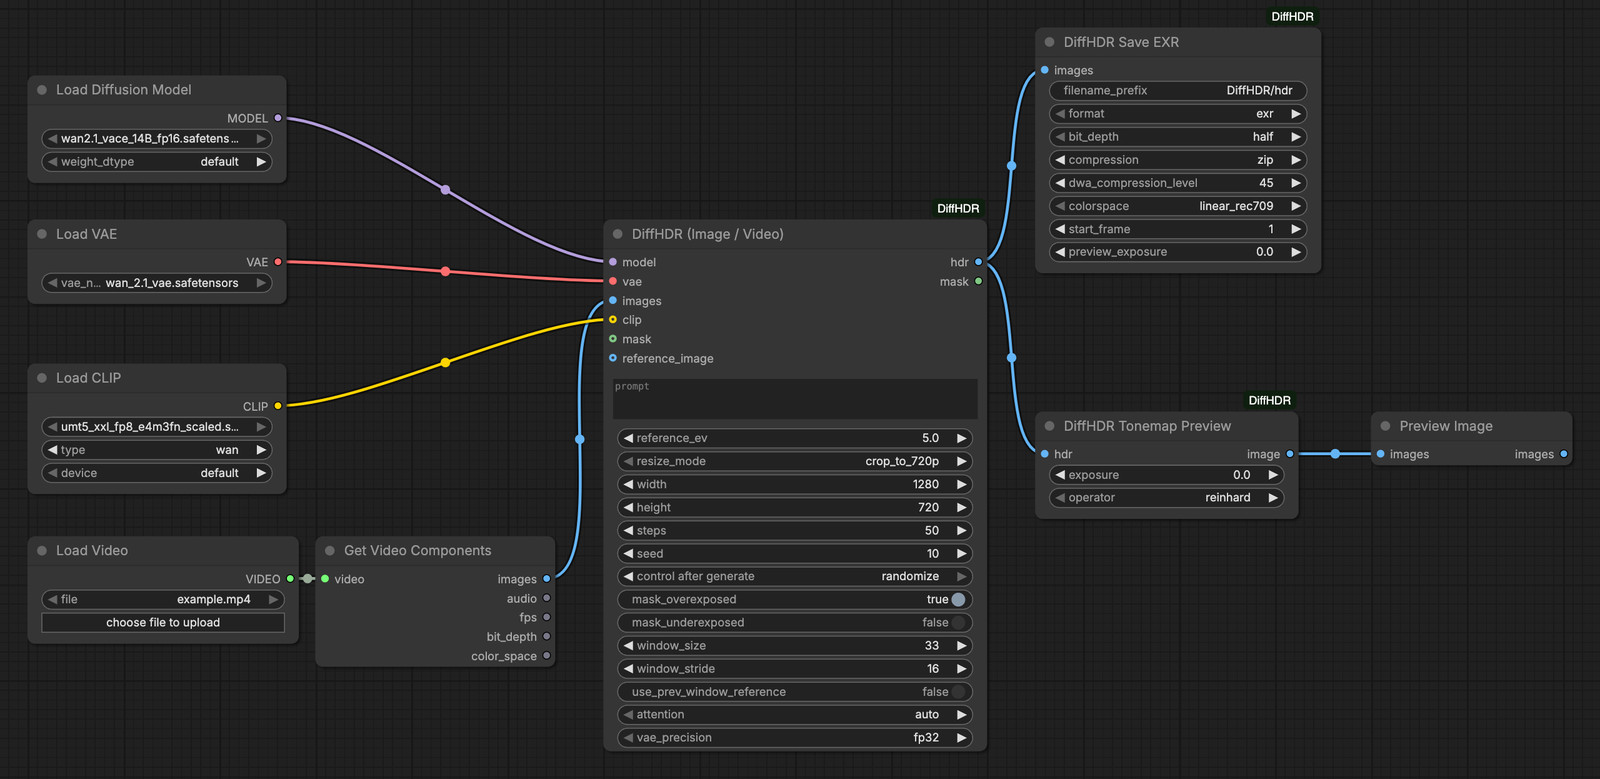
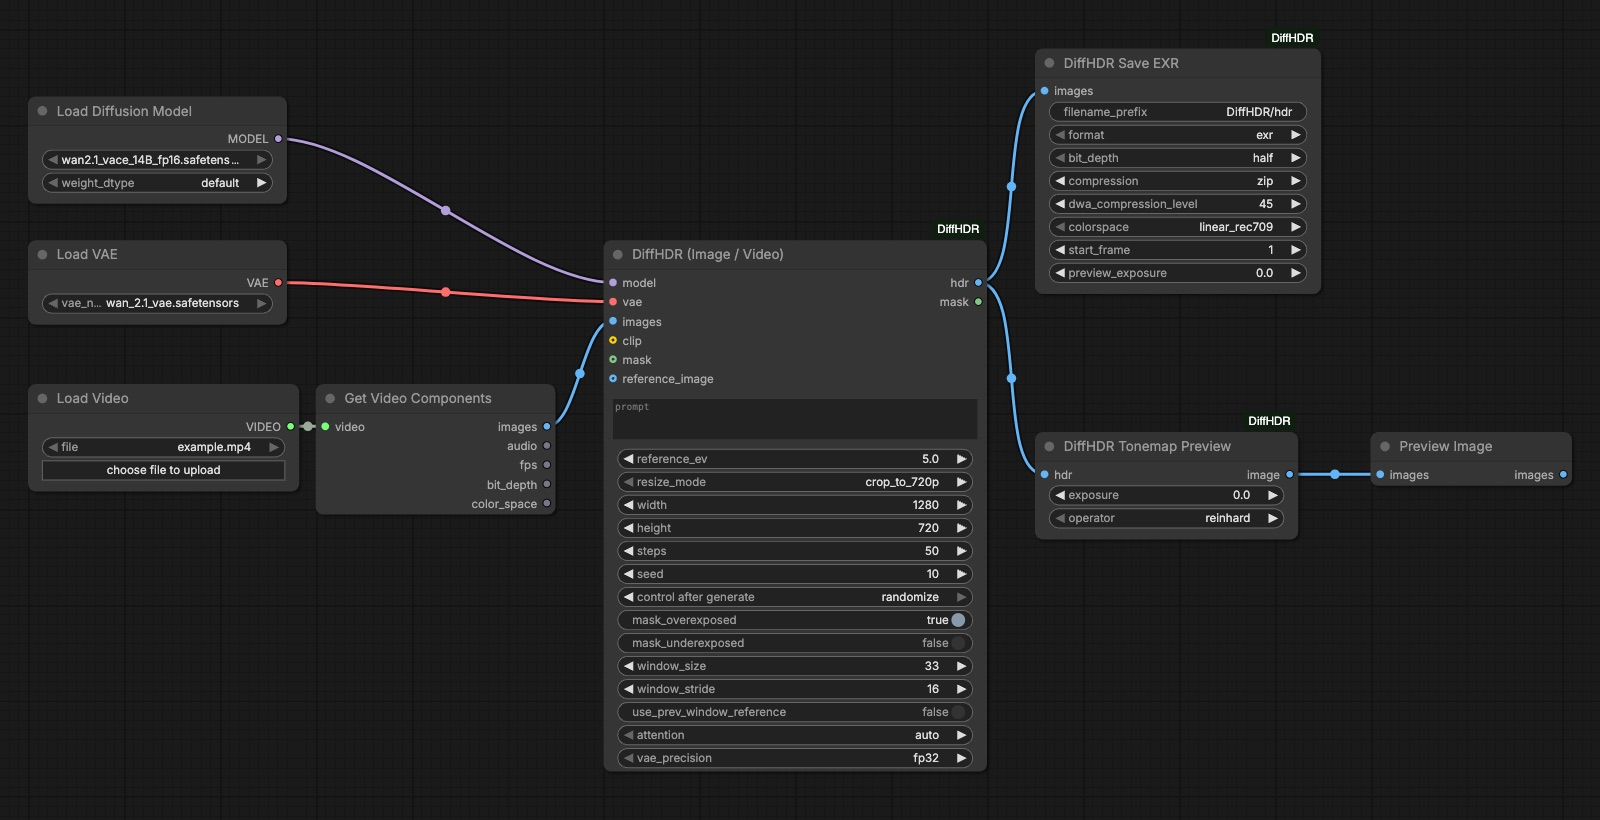
docs(workflows): drop the text encoder from the all-in-one examples
The bundled umT5 embeddings make a CLIP model optional for DiffHDRVideo and
DiffHDRPano, so the three all-in-one example graphs now show the minimal
setup: no CLIPLoader, the clip input left unconnected, and the loader column
evenly re-spaced. The modular graph keeps its text encoder, which its
CLIPTextEncode -> WanVaceToVideo path needs.

Retakes the quick-start screenshot from the tidied graph and updates the
usage and installation wording to match.

diff --git a/README.md b/README.md
@@ -47,28 +47,38 @@ of them was downloaded and run end-to-end during GPU validation.
 
 **The text encoder is optional.** DiffHDR was trained with an empty prompt for images/video and a
 fixed prompt for panoramas, so both all-in-one nodes ship with exactly those embeddings baked in
-(`assets/embeds/`) and run with **no CLIP model loaded at all**. Leave `clip` unconnected and you
-save the ~11 GB umT5-xxl download and its load time; the `prompt` widget is then ignored. Connect a
-umT5-xxl CLIP (`CLIPLoader`, type `wan`) only if you want to experiment with your own prompts.
+(`assets/embeds/`) and run with **no CLIP model loaded at all**. The three all-in-one example
+graphs therefore contain no `CLIPLoader`: leave `clip` unconnected and you save the ~11 GB
+umT5-xxl download and its load time; the `prompt` widget is then ignored. Add a umT5-xxl
+`CLIPLoader` (type `wan`) only if you want to experiment with your own prompts — the modular
+example graph needs it, because its `CLIPTextEncode` → `WanVaceToVideo` path has no baked-in
+embeddings.
 
 ## Usage
 
 Four example workflows are in `workflows/` (ComfyUI UI-format JSON, load with **Open** or
 drag-and-drop): `diffhdr_image.json`, `diffhdr_video.json`, `diffhdr_hdri.json` and
-`diffhdr_modular.json`. All of them reference `wan2.1_vace_14B_fp16.safetensors`,
-`wan_2.1_vae.safetensors` and `umt5_xxl_fp8_e4m3fn_scaled.safetensors` — set the loader widgets to
-match whatever you actually have installed if you use the GGUF or a different precision.
+`diffhdr_modular.json`. All of them reference `wan2.1_vace_14B_fp16.safetensors` and
+`wan_2.1_vae.safetensors` (the modular graph additionally needs
+`umt5_xxl_fp8_e4m3fn_scaled.safetensors`) — set the loader widgets to match whatever you actually
+have installed if you use the GGUF or a different precision.
 
 ### Quick start: the all-in-one node
 
 ![The diffhdr_video.json example workflow in the ComfyUI graph editor](assets/readme/workflow-simple.jpg)
 
+*The whole graph: two loaders, a video loader and the all-in-one node. No text encoder — the
+`clip` input stays empty because the umT5 embeddings are baked in.*
+
 `workflows/diffhdr_video.json` — everything under one hood: `UNETLoader` + `VAELoader` +
-`CLIPLoader` (type `wan`) + `LoadVideo` + `GetVideoComponents` (core ComfyUI video nodes, no
-VideoHelperSuite dependency) → **DiffHDR (Image / Video)** → `DiffHDR Save EXR` and
-`DiffHDR Tonemap Preview` → `PreviewImage`. `diffhdr_image.json` is the same graph with `LoadImage`
-instead of the video loader; `diffhdr_hdri.json` feeds an equirectangular panorama into
-**DiffHDR HDRI (Panorama)**. The inputs that matter:
+`LoadVideo` + `GetVideoComponents` (core ComfyUI video nodes, no VideoHelperSuite dependency) →
+**DiffHDR (Image / Video)** → `DiffHDR Save EXR` and `DiffHDR Tonemap Preview` → `PreviewImage`.
+`diffhdr_image.json` is the same graph with `LoadImage` instead of the video loader;
+`diffhdr_hdri.json` feeds an equirectangular panorama into **DiffHDR HDRI (Panorama)**. There is
+deliberately **no text encoder** in these three graphs: the bundled umT5 embeddings cover the
+prompts DiffHDR was trained with, so the `clip` input is left unconnected and the `prompt` widget
+is ignored. Add a `CLIPLoader` (umT5-xxl, type `wan`) and wire it to `clip` only if you want to
+encode a prompt of your own. The inputs that matter:
 
 - **`steps`** — 50 reproduces the published setting, 20 is usually the best trade-off, 10 is for
   iterating. See *Performance and how many steps?* below.
